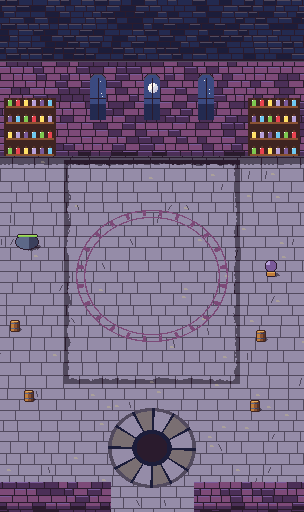
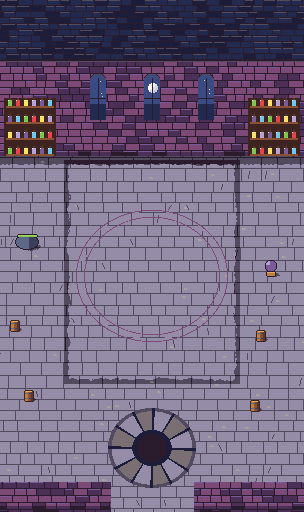
[C] v2.6: regenerate tower floors with the calmer rings, chapter-safe failure tip test, status report (C 世界 v2.6)
Claude-Session: https://claude.ai/code/session_011zCFYQCUMyXvVY6m2szGHz

diff --git a/docs/status/LINE_C.md b/docs/status/LINE_C.md
@@ -2,6 +2,40 @@
 
 最後更新:2026-11-17(v2.5 美術全面重畫 CR1 至 CR6 完成)
 
+## C 世界 v2.6(DEV_PLAN 第 19 節 CW1 至 CW6)
+
+最後更新:2026-11-17。另一個工作階段「C 角色」負責角色圖、頭像與特效,這裡只列 C 世界的部分。
+
+### 已完成
+
+- CW1 第一章背景再修:六張背景的最上方換成真正的遠景(天空、左邊亮右邊暗的山、遠處的卡美洛、霧濛濛的山丘),中間加一排比較淡的樹,和近處的樹分出前後;前景沿用。石橋的鋪面改成兩個接近的中間色(石色、灰紫),去掉亮白的石板,火把光、水窪也調暗,角色和紅色預警更清楚。產生器:`tools/pixel/art_v26_ch1.py`。
+- CW2 十二張新背景(`tools/pixel/art_v26_world.py`,共用工具 `art_v26_kit.py`):
+  - 第二章(暖色石造城堡):城下町(早晨,房子的山牆、紫色荊棘、睡著的狗狗冒 Zzz、市集攤子)、城堡中庭(正午,大門、紅屋頂塔、修剪樹、噴泉)、王家書庫(燭光,兩層書架、月光窗、會飛的魔法書、蠟燭)、城牆之上(夕陽,遠山、塔頂、石像鬼雕像、火把與火盆)、魔法花園(金色午後,割草條紋、樹籬、被荊棘纏住的玫瑰拱門、睡蓮池)、綠色禮拜堂(陰天,長草的古墓禮拜堂、綠光圓窗、石圈小徑、落葉)。
+  - 第三章(冷色月光與迷霧):迷霧湖畔(黎明前,湖霧、島上尖塔、碼頭小船、蘆葦)、妖精森林(夜,大樹、發光蘑菇、小精靈光點、月光)、月光石陣(滿月、巨石門、會發光的符文)、水晶洞窟(青色與紫色水晶、閃光、滴水)、摩根娜之塔(紫色石牆、月光窗、漂浮蠟燭與光球、螺旋樓梯)、塔頂(暴風雨夜、雲海、閃電、火盆、紫旗)。
+  - 每張都有會動的東西(旗子、書、蠟燭、閃光、符文、霧、精靈)、環境粒子(不超過 100 個)、光暈精靈、角色投影、最上層前景;戰鬥區的地面一律是安靜的中間色。根節點仍是 Node2D,檔名不變(原地替換佔位版)。
+- CW3 標題:山改成每座山一面亮一面暗(以前每一行依坡度換色,所以有條紋);三張標題背景:第一章山丘與石中劍、第二章卡美洛城堡、第三章夜晚湖上的高塔(`assets/ui/title_bg.png`、`title_bg_2.png`、`title_bg_3.png`,產生器 `art_v26_title.py`)。背景隨「最高已開啟的章」換,站在前面的角色也換(第二章:貝德維爾、金毛、蘭斯洛特;第三章:蘭斯洛特、金毛、湖中仙女)。選章(合約 4.13):打完第一章後按鈕上方出現「◀ 章名 ▶」,可以選 1 至 min(已打完+1, 3);還沒開啟的章顯示鎖頭、「開始冒險」變灰;按下(與選難度之後)先設定 `GameState.chapter` 再發 `new_game_pressed`。舊存檔(只有 `chapter_cleared`)當作打完第一章。只用觸控、直向、在安全區內。
+- CW4 十一張新插畫(`art_v26_story.py`,160×120,只用調色盤):沉睡的卡美洛、圓桌睡成一片、荊棘化成光點的花園、騎士醒來坐滿圓桌、紫霧飄進梅林房間、湖與高塔(預告)、清晨迷霧湖、湖中仙女從水中升起、塔頂的金毛與摩根娜、加冕禮、夕陽下大家一起撿樹枝。
+- CW5 音樂(`music_gen.py`):`field_2`(F 大調城堡進行曲)、`boss_2`(E 小調、輕快跳躍的綠騎士戰)、`field_3`(A 小調、神秘的迷霧湖,三角波旋律加長回音)、`boss_3`(C 小調、緊張又有點悲傷的摩根娜戰)。都是無縫循環、QOA 匯入;`Music` 已把它們列為循環曲。
+- CW6:失敗畫面的提示依章抽(第一章 1 至 8、第二章 1 至 10 與 13、第三章 1 至 14);結算的標題是「第 N 章 完」(第三章「全劇終」),進度是「第 N 章 m/6」(章從 `result.chapter`、`level_id` 或 `GameState.chapter` 來)。HUD 的章名本來就依關卡 id 顯示,不用改。新增翻譯鍵 `UI_CHAPTER_SHORT_1..3`、`UI_CHAPTER_PROGRESS_N`、`UI_CHAPTER_END`、`UI_GAME_END`、`UI_CHAPTER_CLEARED_N`、`UI_ALL_CHAPTERS_CLEARED`。
+- 整合通知處理:`assets/backgrounds/actor_shadows.gd` 讀 SpriteFrames 的 `metadata/foot_lift`(黑騎士 8),影子跟著往上;`FLYERS` 加 gargoyle、spellbook、foxfire。
+- 測試:新增 `tests/line_c/test_v26_world.gd`(新背景規格、戰鬥區地面安靜、選章、依章的背景、提示、結算文字、新音樂);`tools/run_tests.sh line_c` 全部通過。
+
+怎樣看:
+
+- 截圖工具:`xvfb-run -a godot --path . --rendering-driver opengl3 res://tests/line_c/world_shots.tscn -- --out=資料夾 --bgs=all --titles=0,1,2,3`(每張背景放幾個角色,標題依已打完的章數)。
+- 只重畫 C 世界的檔案(不會動到角色圖):`python3 tools/pixel/art_v26_world.py`、`art_v26_ch1.py`、`art_v26_title.py`、`art_v26_story.py`、`python3 tools/pixel/music_gen.py field_2 boss_2 field_3 boss_3`,再 `godot --headless --path . --import`。
+
+### 給整合工作階段
+
+- `tools/pixel/build_all.py` 加了四個 import 與四行呼叫(在 `art_brand.write_all` 之後,所以會蓋過舊的標題背景與第一章背景)。
+- 我把分支快轉到 `claude/sleepy-hawking-8cvkvl` 的 v2.6 佔位版(11d0246)後才開始。
+- 全部測試裡 `tests/line_b/test_story_data.gd` 有一項失敗(STORY.md 第 5 節的段落清單多了第二、三章),是 B 線的範圍。
+
+### 還可以再做 / 需要擁有人決定的事
+
+- 插畫裡的蘭斯洛特、湖中仙女、摩根娜是用金毛的圖換色畫的(C 角色的正式圖完成前不能直接用);整合後可以換成 C 角色的新圖。插畫裡的角色仍然拿著劍(撿樹枝那幾張也是)。
+- 長手機才看得到第一章背景最上面的遠景;一般 180×320 的畫面上方被 HUD 蓋住的部分只多了一排淡淡的中景樹。
+
 ## 已完成
 
 ### 本輪(v2.5 美術全面重畫,DEV_PLAN 第 18 節)
